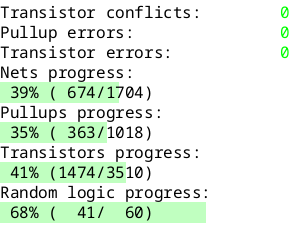
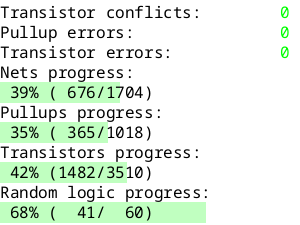
Pull out random logic: two inversions of CP1

diff --git a/input/nodenames.js b/input/nodenames.js
@@ -969,6 +969,9 @@ tres2: 1357,         // Resets T2-T5
 "#pch0": 1010,
 "#pch1": 1070,
 "#pch2": 1265,
-"#pch3": 923
+"#pch3": 923,
+
+"~cp1_strong": 1247,
+"~cp1": 43
 }
 
